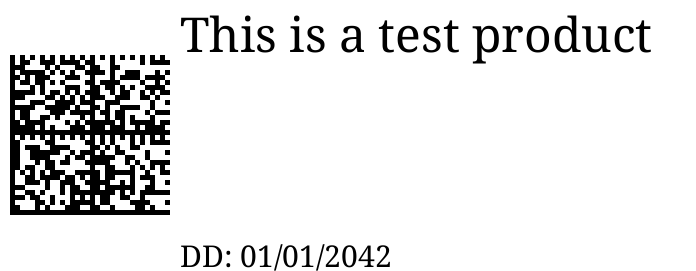
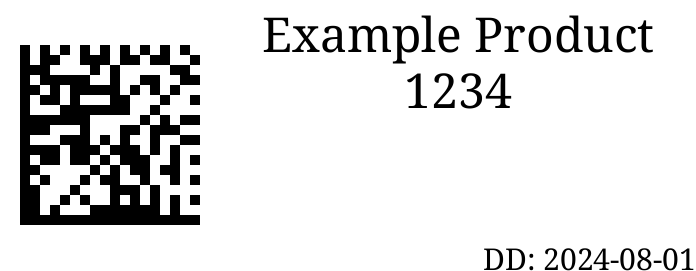
Updated example label

diff --git a/README.md b/README.md
@@ -1,6 +1,6 @@
 # Brother QL Grocy Label Printer Service
 
-![Example Label](example.png)
+<img src="example.png" alt="Example Label" width="348" height="135">
 
 This project is intended to be a webhook target for [Grocy](https://github.com/grocy/grocy) to print labels to a brother QL label printer. Datamatrix barcodes are used instead of QR or linear barcodes, this matches what Grocy uses by default.
 
